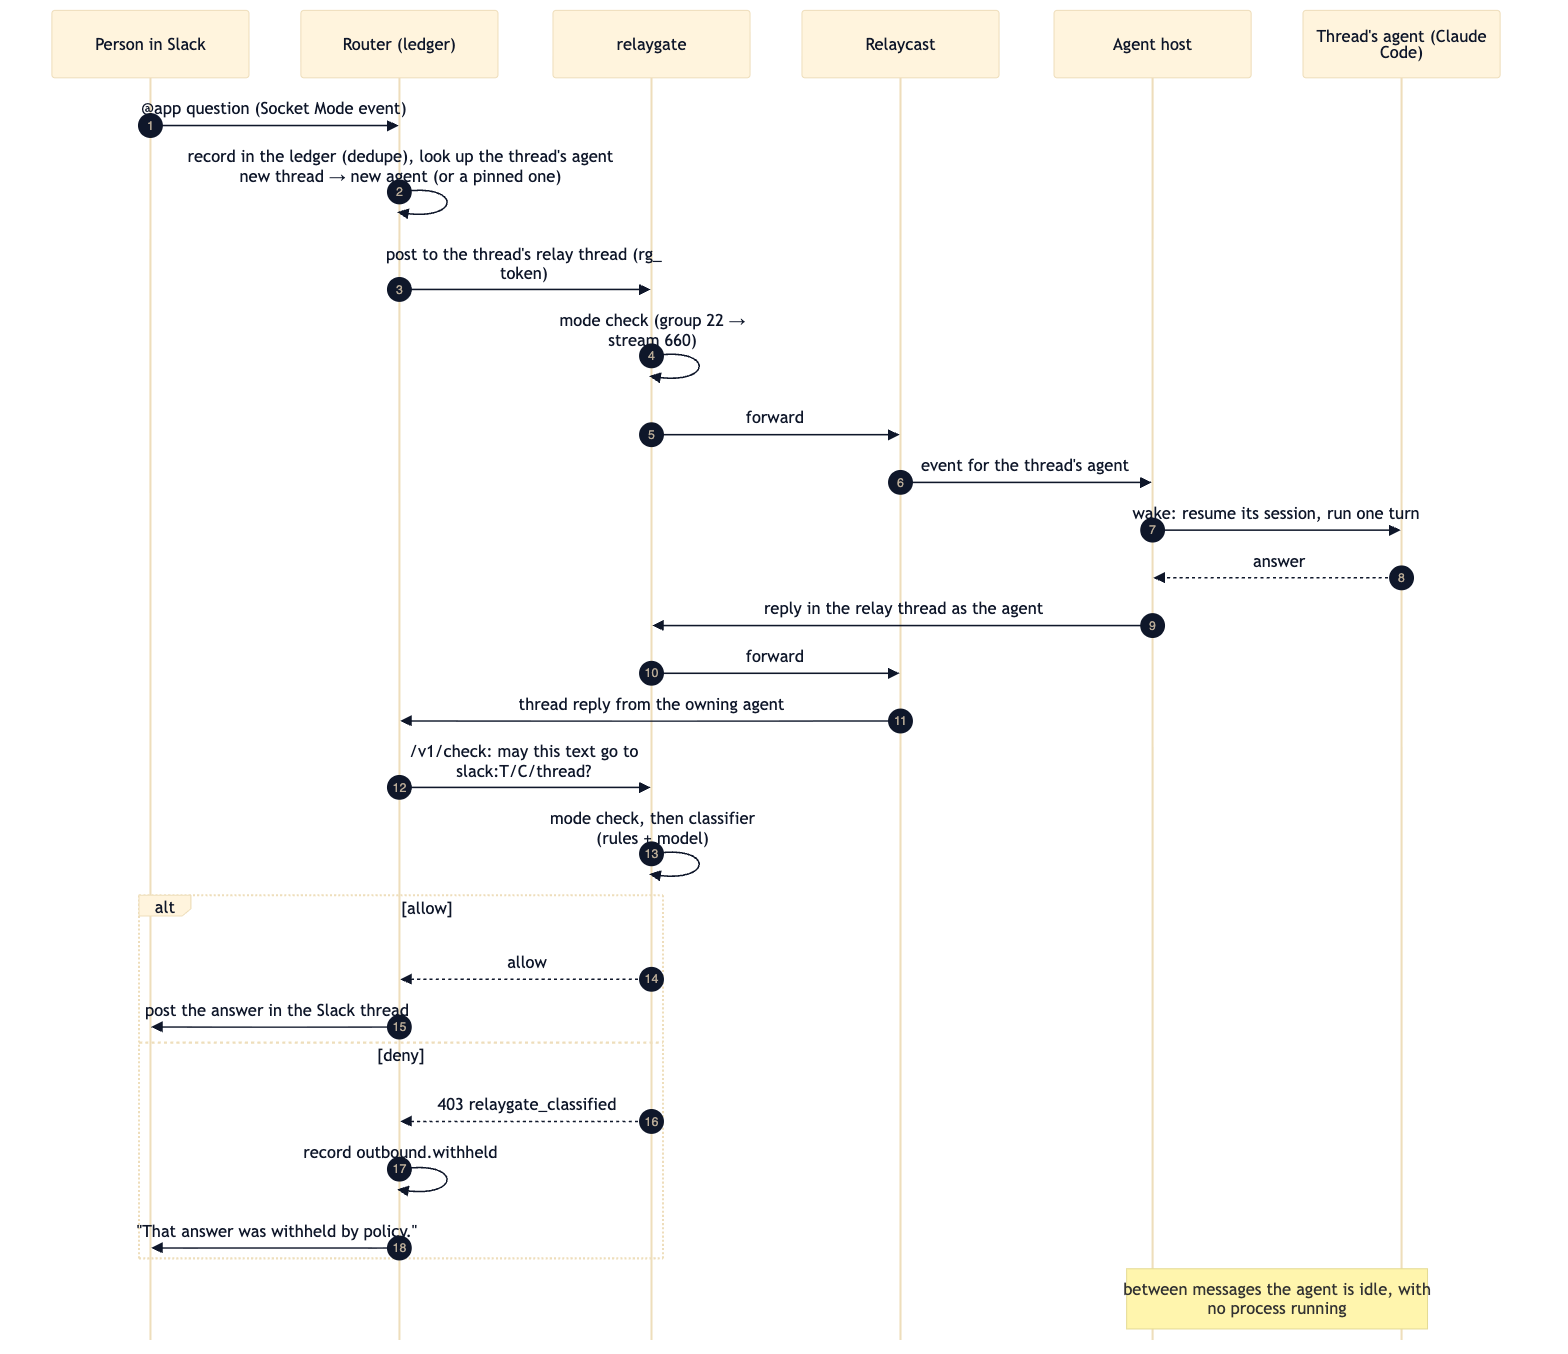
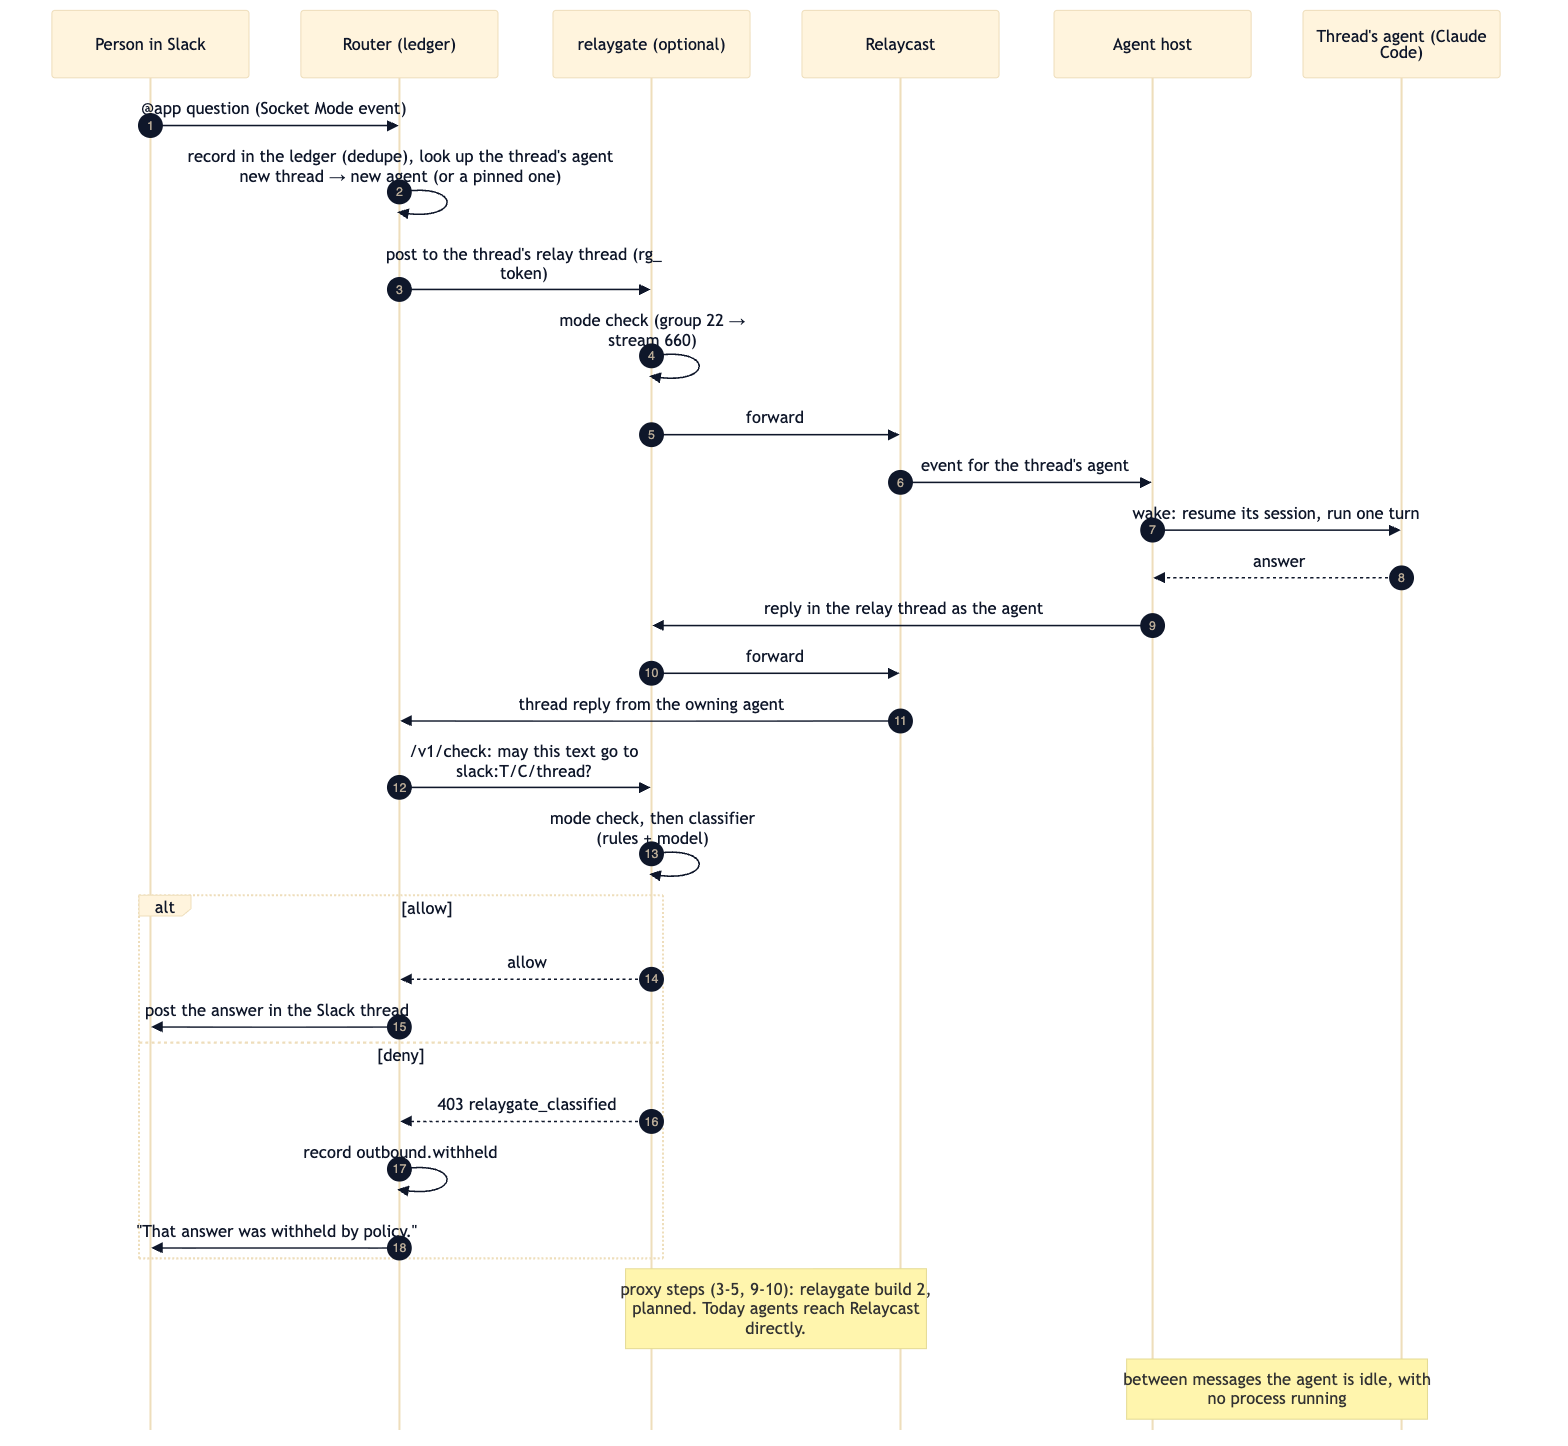
docs: diagrams mark planned paths; no ZDR promise; relaygate status
- The gate's Relaycast/Sessions proxy (relaygate build 2) and agent session
  upload are drawn dashed and labelled planned; the flow notes that today
  agents reach Relaycast directly.
- 'Anthropic API (ZDR)' becomes an operator requirement: use a
  zero-data-retention key for regulated data.
- self-hosted-relaygate.md says plainly that build 1 doesn't isolate pit data
  until the proxy ships.
- Reverts the charts/agent-relay README pointer (a chart change needing a
  version bump); the README and guides carry it.

diff --git a/docs/self-hosted-relaygate.md b/docs/self-hosted-relaygate.md
@@ -8,6 +8,13 @@ knowledge base) go through a **classifier** (rules, plus an optional Claude
 model). Denials never reach upstream. It is opt-in: `components.relaygate` in
 the umbrella, or its own release.
 
+> **Status: build 1.** Registration, mode checks, the classifier, `/v1/check`
+> and the audit log work today, so Slack posts and knowledge-base writes are
+> gated. The proxy in front of Relaycast and Sessions is build 2 and not yet
+> shipped: until it is, agents still reach Relaycast and Sessions directly and
+> relaygate does **not** isolate pit data from other agents. Don't rely on it
+> for that yet.
+
 ![Slack app and relaygate](diagrams/slack-relay-relaygate.png)
 
 ([SVG](diagrams/slack-relay-relaygate.svg) · source [slack-relay-relaygate.mmd](diagrams/slack-relay-relaygate.mmd) · one message end to end: [slack-relay-flow.png](diagrams/slack-relay-flow.png))
@@ -24,7 +31,7 @@ enrollment keys decide an agent's group at registration and can be limited to
 a name prefix.
 
 ```yaml
-# relaygate-values.yaml
+# relaygate-values.yaml (Anthropic: use a zero-data-retention key where regulated data may be classified)
 image:
   digest: sha256:<published digest>
 policy:

diff --git a/charts/agent-relay/README.md b/charts/agent-relay/README.md
@@ -21,11 +21,7 @@ see `docs/self-hosted-relayflows.md`). Relayfile (`components.relayfile`) and
 the durable-actors control plane (`components.durableActors`) are optional and
 off by default; see `docs/self-hosted-durable-actors.md`. Relay Chief
 (`components.relayChief`) is also off by default and configured under the
-`relay-chief` key; see `charts/relay-chief/README.md`. The Slack app
-(`components.slackRelay`, values under `slack-relay`) and the relaygate
-governance gate (`components.relaygate`, values under `relaygate`) are off by
-default; see `docs/self-hosted-slack-relay.md`, `docs/self-hosted-relaygate.md`
-and the diagram `docs/diagrams/slack-relay-relaygate.png`.
+`relay-chief` key; see `charts/relay-chief/README.md`.
 
 Requires Helm 3.10 or newer: the relay-control subchart uses
 `{{ continue }}`, which older Helm versions cannot parse.
